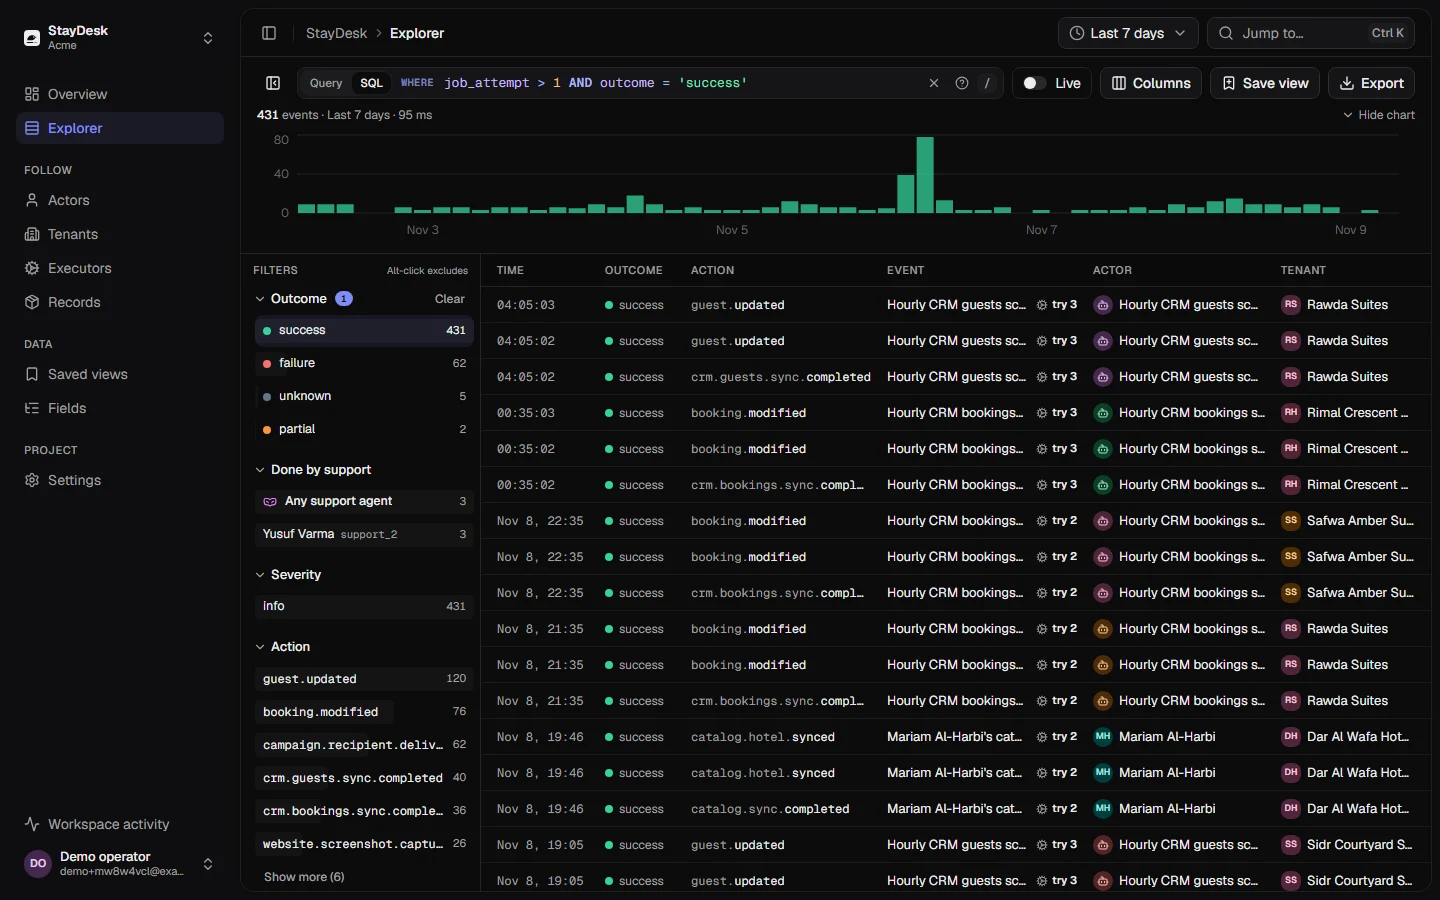
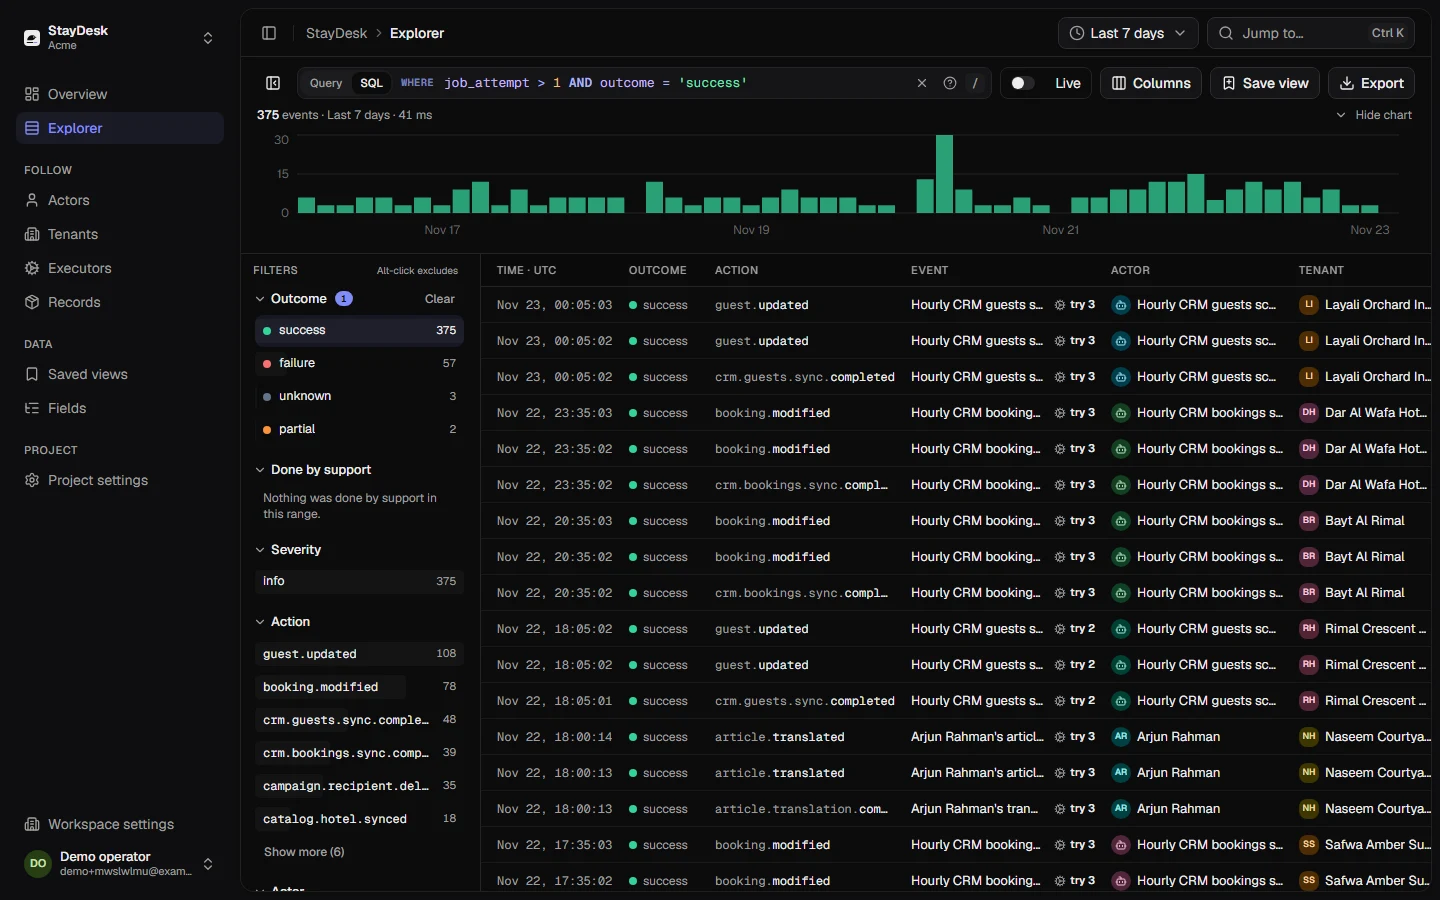
fix(web): UTC everywhere a capture shows time; tenant-account keeps its size; eager visible hero
Astra on #289:
- The 2026-11-09 overview, explorer, event sheet, SQL and phone stills showed the
  capture machine's time zone; recaptured in UTC from the same fixture, light and
  dark, with the event-detail crop regenerated at its size.
- tenant-account keeps master's 588x414 file; the wider crop is tenant-summary,
  used on the landing page and the customer page.
- The search-suggestion shots waited for an operator row while values loaded;
  the script now waits for real values with counts, recaptured.
- /product's retention caption now says what the capture shows.
- A priority screenshot switches its visible variant to eager loading as soon as
  it is parsed (inline, CSP-hashed); the hidden theme stays lazy and is never
  fetched (checked: one request per visitor, light or dark, desktop or phone).
- Tests: the capture script uses the page's hero query; nothing is positioned
  over the hero explorer; the eager switch renders.

diff --git a/apps/web/src/components/screenshot.tsx b/apps/web/src/components/screenshot.tsx
@@ -1,6 +1,10 @@
 import { imageWidths, type ScreenshotEntry, screenshots, type Variant } from '../lib/media-manifest';
 
 const FORMATS = ['avif', 'webp'] as const;
+
+/** Loads the visible variant of the preceding screenshot eagerly (see Screenshot's `priority`). */
+const EAGER_VISIBLE =
+  "document.currentScript.previousElementSibling.querySelectorAll('img').forEach(function(i){if(i.getClientRects().length)i.loading='eager'})";
 const PHONE = '(max-width: 639px)';
 
 const srcSet = (id: string, theme: 'light' | 'dark', format: string, widths: number[]) =>
@@ -79,15 +83,23 @@ export function Screenshot({ id, sizes = '100vw', zoomLabel, priority }: { id: s
   }
   const themed = Boolean(entry.dark || entry.phone?.dark);
   return (
-    <div className="screenshot">
-      {themed ? (
-        <>
-          <ThemePicture className="theme-light" entry={entry} priority={priority} sizes={sizes} theme="light" zoomLabel={zoomLabel} />
-          <ThemePicture className="theme-dark" entry={entry} priority={priority} sizes={sizes} theme="dark" zoomLabel={zoomLabel} />
-        </>
-      ) : (
-        <ThemePicture entry={entry} priority={priority} sizes={sizes} theme="light" zoomLabel={zoomLabel} />
-      )}
-    </div>
+    <>
+      <div className="screenshot">
+        {themed ? (
+          <>
+            <ThemePicture className="theme-light" entry={entry} priority={priority} sizes={sizes} theme="light" zoomLabel={zoomLabel} />
+            <ThemePicture className="theme-dark" entry={entry} priority={priority} sizes={sizes} theme="dark" zoomLabel={zoomLabel} />
+          </>
+        ) : (
+          <ThemePicture entry={entry} priority={priority} sizes={sizes} theme="light" zoomLabel={zoomLabel} />
+        )}
+      </div>
+      {priority ? (
+        // The theme class is set before first paint, so the hidden variant has no layout box. This switches only the
+        // visible variant from lazy to eager as soon as it is parsed; the hidden one stays lazy and is never fetched.
+        // biome-ignore lint/security/noDangerouslySetInnerHtml: a constant, CSP-hashed inline script with no input
+        <script dangerouslySetInnerHTML={{ __html: EAGER_VISIBLE }} />
+      ) : null}
+    </>
   );
 }

diff --git a/apps/web/src/content/landing-visuals.test.ts b/apps/web/src/content/landing-visuals.test.ts
@@ -1,3 +1,5 @@
+import { readFileSync } from 'node:fs';
+import { fileURLToPath } from 'node:url';
 import { describe, expect, it } from 'vitest';
 import { compileQuery } from '../../../../packages/clickhouse/src/query';
 import { screenshots } from '../lib/media-manifest';
@@ -41,7 +43,20 @@ describe('landing visuals', () => {
     expect(evidence.replace(/<[^>]+>/g, '').replaceAll('&#x27;', "'")).toContain(evidenceLimits.exportMatch);
     expect(evidence).toContain('Open the image full size: Workspace activity');
 
-    expect(section(html, 'customers')).toContain('/media/tenant-account-');
+    expect(section(html, 'customers')).toContain('/media/tenant-summary-');
     expect(section(html, 'operators')).toContain('Open the image full size: Event detail');
+
+    // Nothing is positioned over the explorer: the hero's only absolutely positioned element is its background grid.
+    expect(hero.match(/class="[^"]*\babsolute\b/g) ?? []).toHaveLength(0);
+    expect(html.slice(html.lastIndexOf('<section', html.indexOf('id="hero-title"')), html.indexOf('id="hero-title"'))).toContain(
+      'ledger-bg pointer-events-none absolute',
+    );
+    // The visible variant is switched to eager loading right after the picture is parsed.
+    expect(hero).toContain("i.loading='eager'");
   }, 60_000);
+
+  it('the capture script shows the same query the page describes and the tests compile', () => {
+    const script = readFileSync(fileURLToPath(new URL('../../../app/scripts/capture-media.mjs', import.meta.url)), 'utf8');
+    expect(script).toContain(`const heroQuery = '${home.explorer.query}';`);
+  });
 });

diff --git a/apps/web/src/lib/media-manifest.ts b/apps/web/src/lib/media-manifest.ts
@@ -96,7 +96,15 @@ export const screenshots: ScreenshotEntry[] = [
     // A crop of the tenant capture above: the header, the counts and "who did it", at a size where the text reads.
     id: 'tenant-account',
     light: `${C}/tenant-account-light.webp`,
-    dark: `${C}/tenant-account-dark.webp`,
+    width: 588,
+    height: 414,
+    alt: 'One customer account in the console: Dar Al Wafa Hotels had 428 events in the last 24 hours and 2,634 in all. Support agent Leena Ashford performed 5 of the 428 while signed in as the customer.',
+  },
+  {
+    // The same panel from the 2026-11-24 tenant capture, light and dark, at its own size (tenant-account keeps master's).
+    id: 'tenant-summary',
+    light: `${C}/tenant-summary-light.webp`,
+    dark: `${C}/tenant-summary-dark.webp`,
     width: 1160,
     height: 425,
     alt: 'One customer account in the console: Dar Al Wafa Hotels had 454 events in the last 24 hours and 2,632 in all. Support agent Leena Ashford performed 9 of the 454 while signed in as the customer.',

diff --git a/apps/web/src/content/use-cases/customer-audit-logs.ts b/apps/web/src/content/use-cases/customer-audit-logs.ts
@@ -136,7 +136,7 @@ export function customerAuditLogsContent(site: SiteState): UseCase {
           },
         ],
         visual: {
-          id: 'tenant-account',
+          id: 'tenant-summary',
           label: 'Customer account',
           caption:
             "Your team's view of one customer account in Logbird's console: its events in the last 24 hours and in all, and which support agents acted while signed in as the customer. Your customers see their own history in your product, rendered by your components. Select the image to open it full size.",

diff --git a/apps/web/src/content/use-cases/use-cases.test.ts b/apps/web/src/content/use-cases/use-cases.test.ts
@@ -68,7 +68,7 @@ describe('use-case pages', () => {
       expect(html.match(/<h1[\s>]/g)?.length).toBe(1);
       const ids = [...html.matchAll(/\sid="([^"]+)"/g)].map(([, id]) => id);
       expect(ids.filter((id, index) => ids.indexOf(id) !== index)).toEqual([]);
-      expect(html).toMatch(/<a aria-label="Open the image full size: Customer account"[^>]*href="\/media\/tenant-account-/);
+      expect(html).toMatch(/<a aria-label="Open the image full size: Customer account"[^>]*href="\/media\/tenant-summary-/);
     }
   }, 60_000);
 });

diff --git a/apps/web/src/routes/product.tsx b/apps/web/src/routes/product.tsx
@@ -321,7 +321,7 @@ function ProductPage() {
         title="Keep events as long as you decide, then delete them."
         visual={
           <ScreenshotFrame
-            caption="Lowering retention: the preview shows what will be deleted, and you confirm by typing the project's slug."
+            caption="A project's retention settings: the current window, the policies you can choose, and when the purge last ran."
             id="retention"
             label="Retention"
             zoomLabel={zoom('Retention')}

diff --git a/apps/web/src/content/home.ts b/apps/web/src/content/home.ts
@@ -157,7 +157,7 @@ export function homeContent(site: SiteState) {
       },
       limitLabel: 'The limit',
       screenshot: {
-        id: 'tenant-account',
+        id: 'tenant-summary',
         label: 'Customer account',
         caption:
           "A customer account's page in the console: its event counts, and how many events support did while signed in as the customer, by agent.",

diff --git a/docs/media/README.md b/docs/media/README.md
@@ -10,9 +10,11 @@ because it sits above the fold; the site's tests compile the query) and `export-
 attribute table truncates long keys and the digest, so the capture opens its raw payload and keeps the sheet from its
 sticky header (the record's title and `export.completed`) to the end of the raw `attributes` block: one contiguous
 region of the real screen. The export is downloaded through the console's own API during the capture; nothing on the
-page is edited. `tenant-account` is a crop of `tenant-{light,dark}` (box 250, 70 to 1410, 495): the account's header,
-counts and "who did it" panel. A shot that gains a dark variant is replaced in light and dark together, from one
-fixture, so both themes show the same data. The other stills date from 2026-11-09.
+page is edited. `tenant-summary` is a crop of `tenant-{light,dark}` (box 250, 70 to 1410, 495): the account's header,
+counts and "who did it" panel (`tenant-account` keeps its 2026-11-09 crop and size). `event-detail` is the sheet panel of
+`event-sheet-{light,dark}` (box 801, 0 to 1440, 860). A shot that gains a dark variant is replaced in light and dark
+together, from one fixture, so both themes show the same data. The 2026-11-09 stills that showed the capture machine's
+time zone (overview, explorer, event sheet, SQL and their phone views) were recaptured in UTC on 2026-11-24.
 
 ## Reproduce
 
